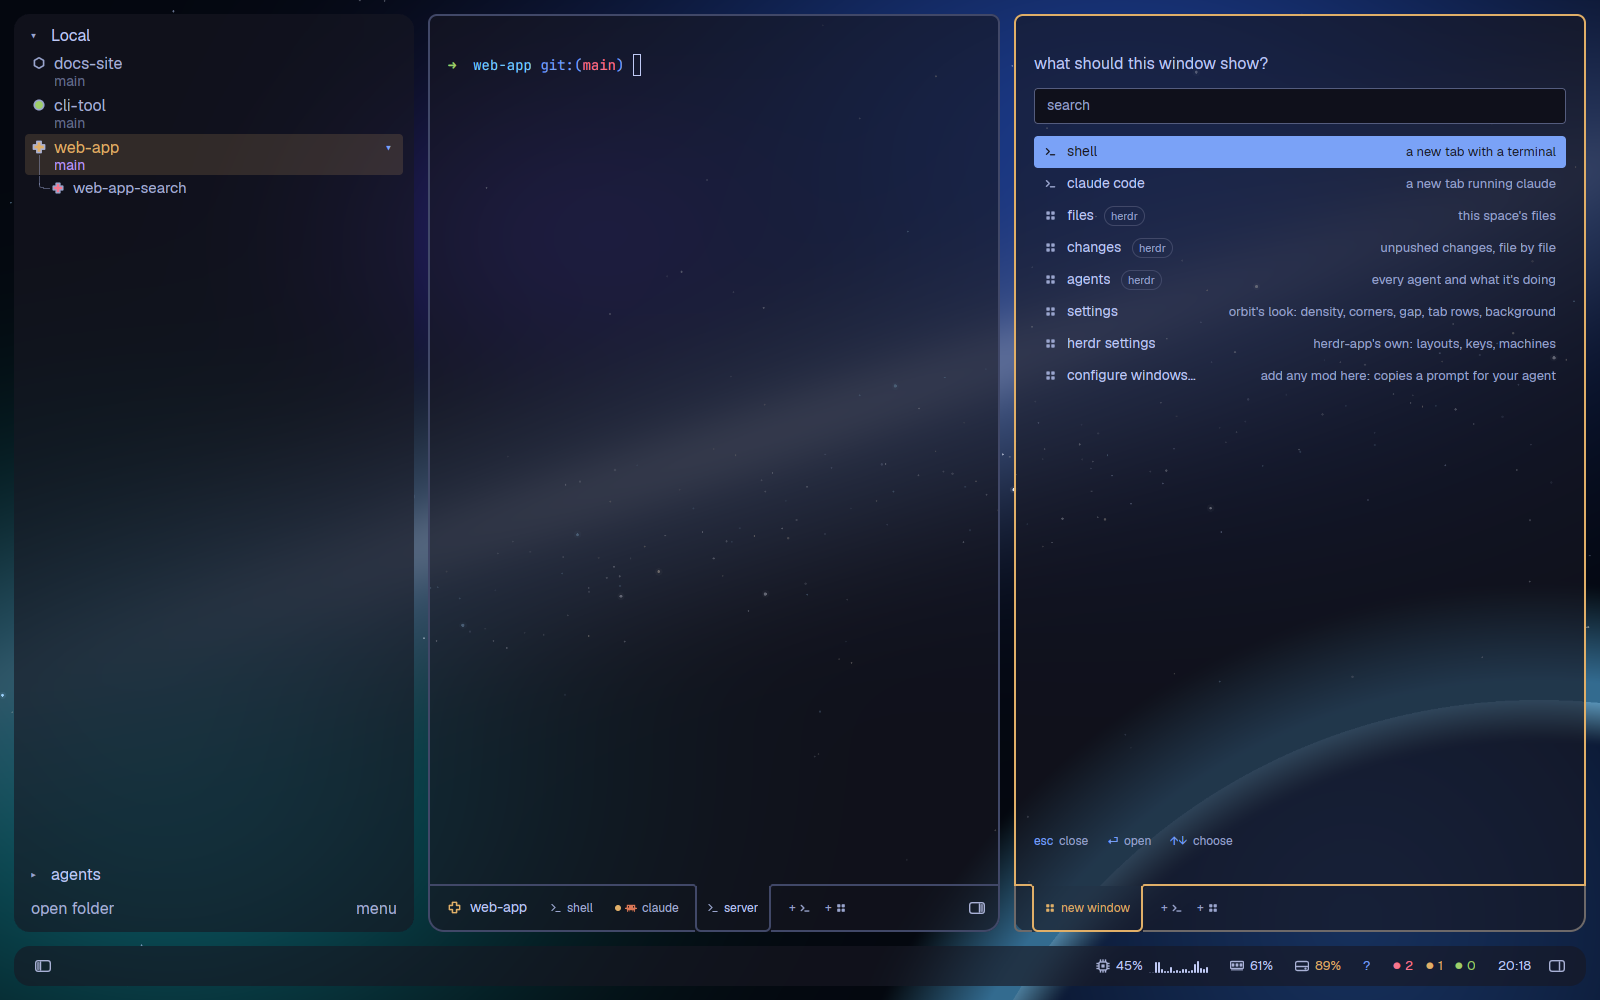
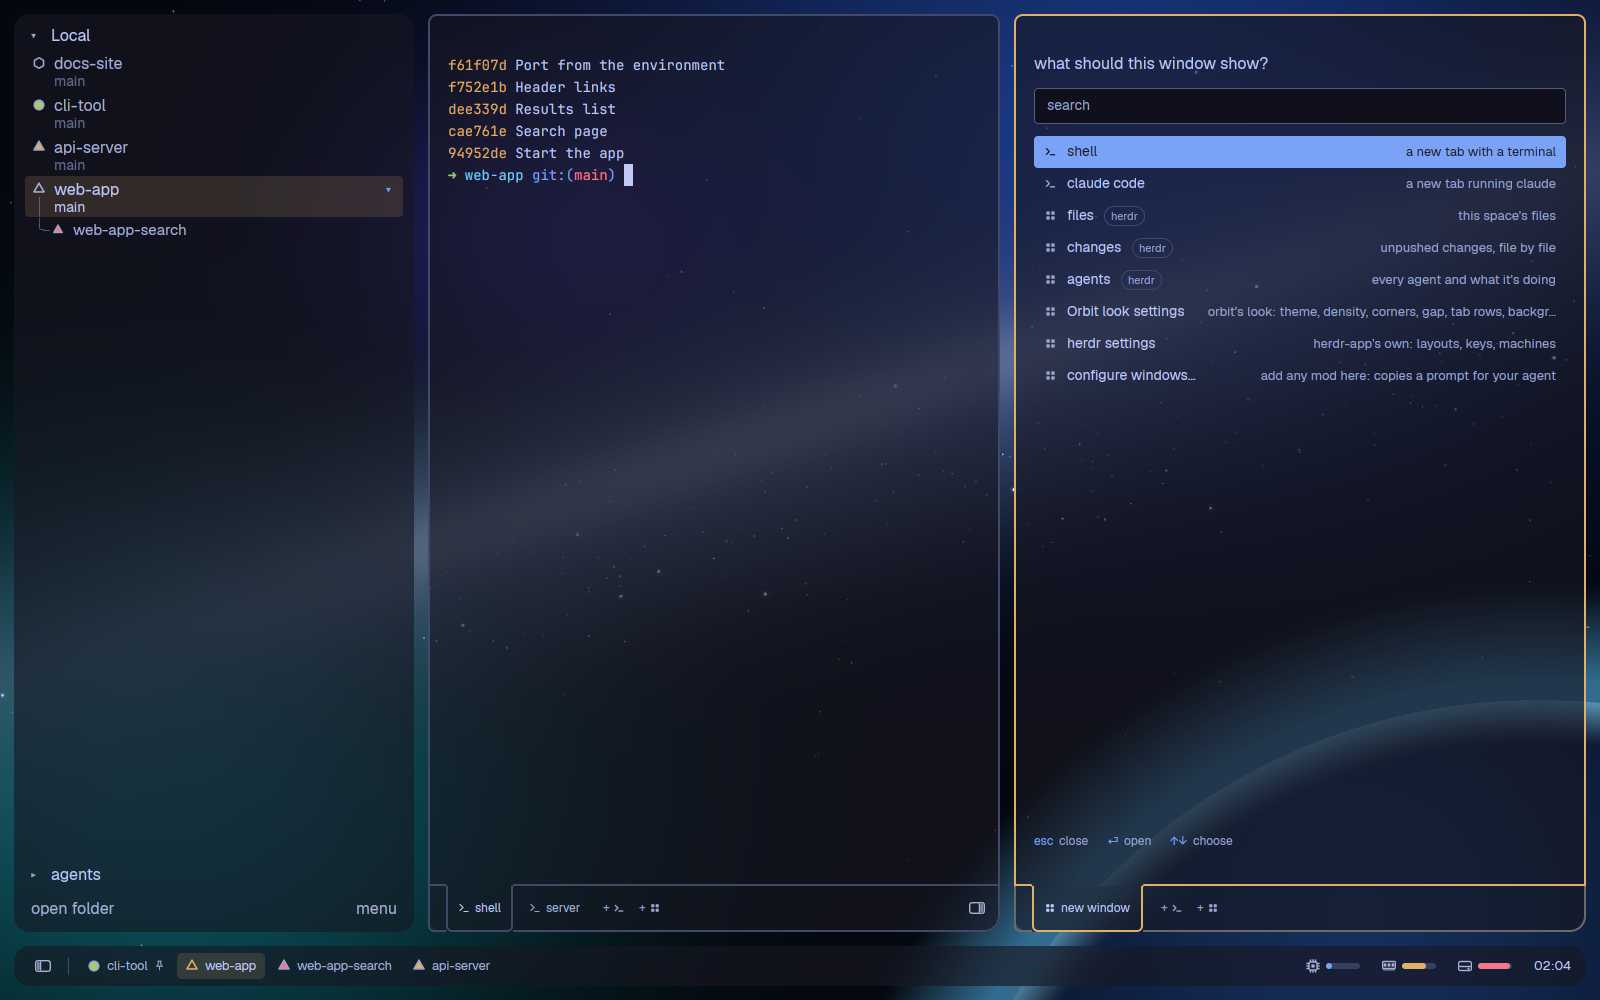
Version 4: README's update notes and a new preview

diff --git a/mods/orbit/main.js b/mods/orbit/main.js
@@ -51,7 +51,7 @@ export async function openSettings(cx) {
 
 // This build's version, also in shared "orbit.version" (shared.json in
 // herdr-app's home), so you can see which one you have.
-export const VERSION = 3;
+export const VERSION = 4;
 
 const RECENT = "orbit.recent";
 

diff --git a/README.md b/README.md
@@ -7,9 +7,9 @@ This is an unofficial layout. It is not affiliated with or endorsed by Herdr.
 It uses only what herdr-app offers to everyone (a layout, mods and a theme)
 and doesn't change the app. Made for herdr-app 0.1.11.
 
-**Version 3**. See [Updating](#updating).
+**Version 4**. See [Updating](#updating).
 
-![Orbit: the sidebar, two panes, the picker open in the right one](preview.png)
+![Orbit: the sidebar, two panes with the picker open in the right one, the taskbar with a pinned space](preview.png)
 
 ## Add it
 
@@ -71,6 +71,15 @@ The themes were called `orbit` and `orbit-*` before; they're named by their
 palettes now (`orbit` is `tokyo-night`). `./install.sh` picks your theme
 again under its new name, so the colours stay; by hand, pick it again in the
 look settings.
+
+Version 4 adds the taskbar to the status bar (a card for each pinned, shown,
+waiting or working space; right-click to pin, drag to move), cpu, ram and
+disk as bars that open a popup, the look settings in the right pane (`ctrl-,`)
+and a split for each space (the panes' sizes and the side panel's width). The
+status bar's side panel button, `?` and agent counts are gone: the
+`orbit.side-panel` command opens the side panel. The themes are renamed (see
+above). A space's colour and symbol now come from its repository, so some
+spaces change theirs once.
 
 Version 3 adds the settings, the six themes and the `ctrl-,` key. Its
 corners and gap start on "auto", the density's (16 and 14 at comfortable):

diff --git a/RECIPE.md b/RECIPE.md
@@ -455,7 +455,7 @@ background `#161622`, surface `#161622`, border `#414868`, foreground
   old `themes/orbit*.json` and the files in `themes/`, then copy the new ones in, and replace the
   `layout:orbit` section of `keys.json` with the new one; leave the person's
   other files and keys alone, the settings in `shared.json` and the
-  pictures in `backgrounds/`. This build is version 3 (`VERSION` in
+  pictures in `backgrounds/`. This build is version 4 (`VERSION` in
   `mods/orbit/main.js`, shared `"orbit.version"`).
 
 ## Done when
